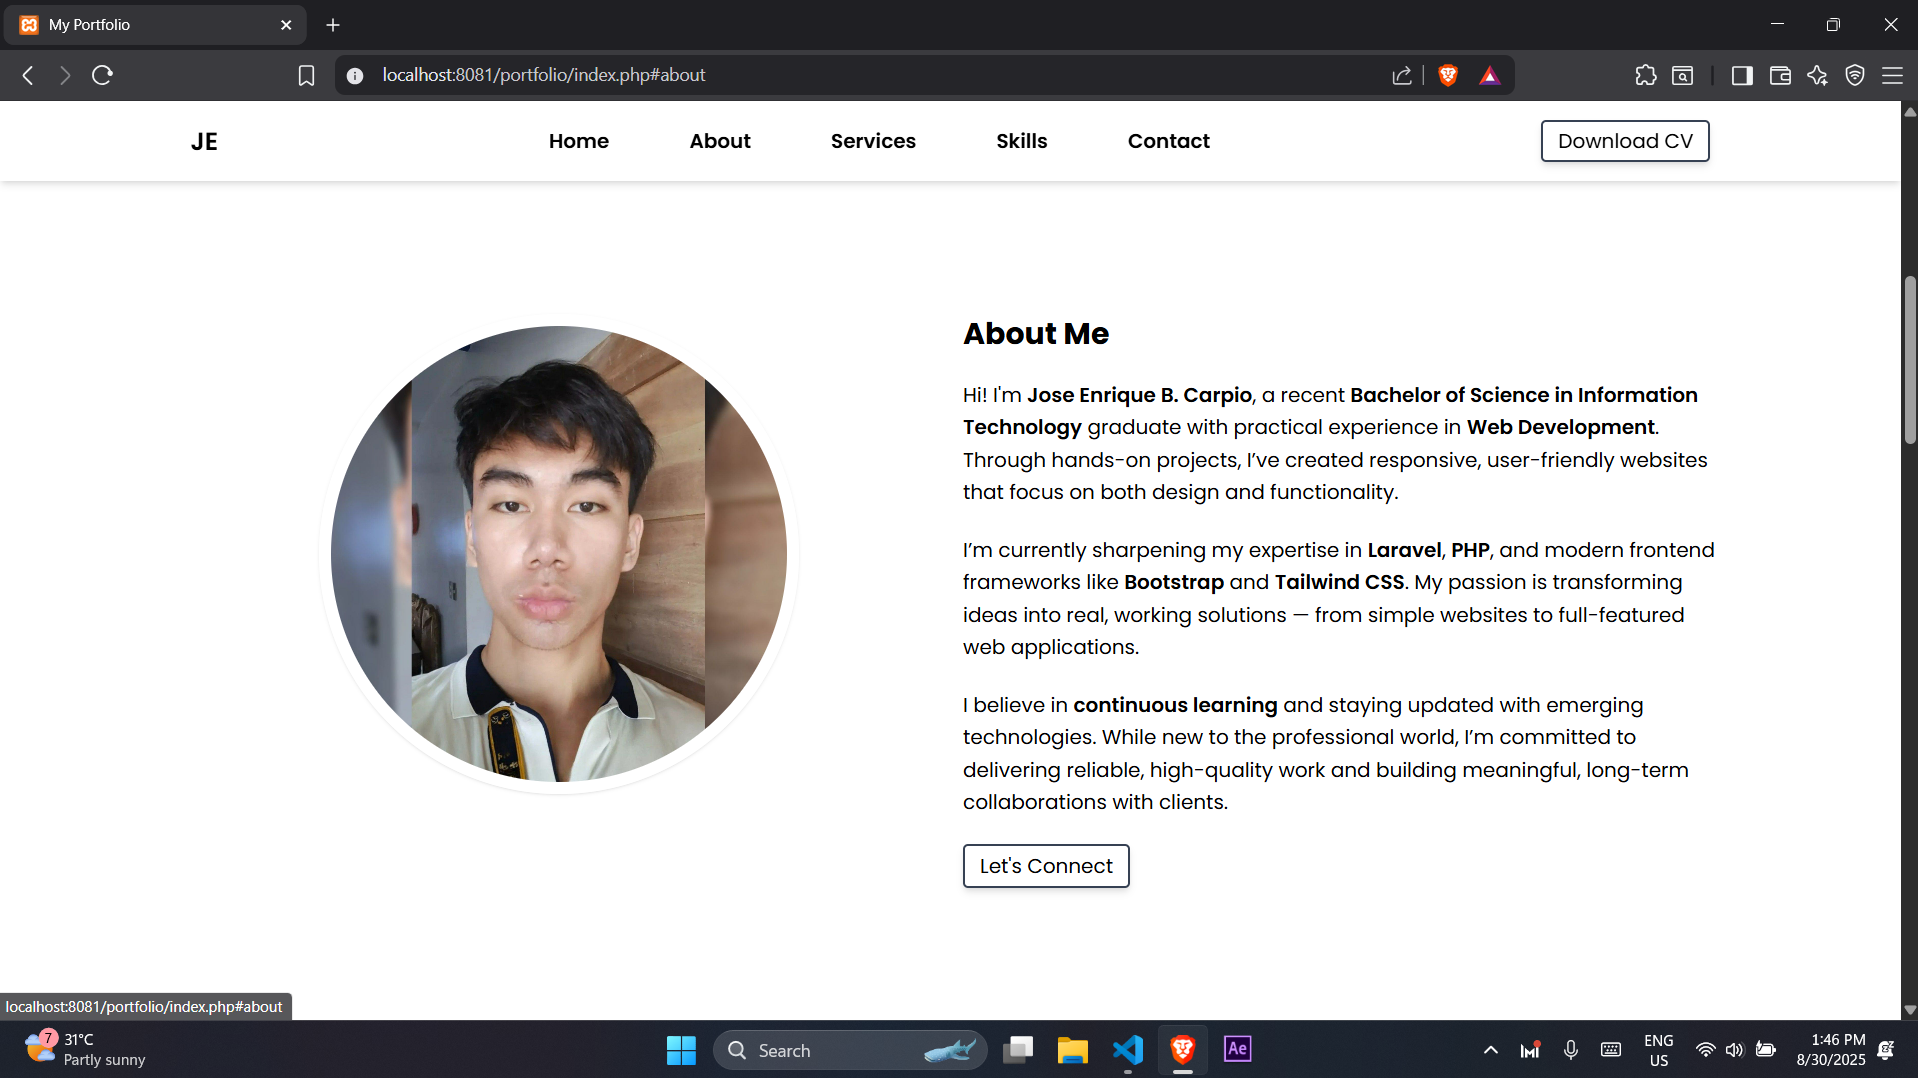
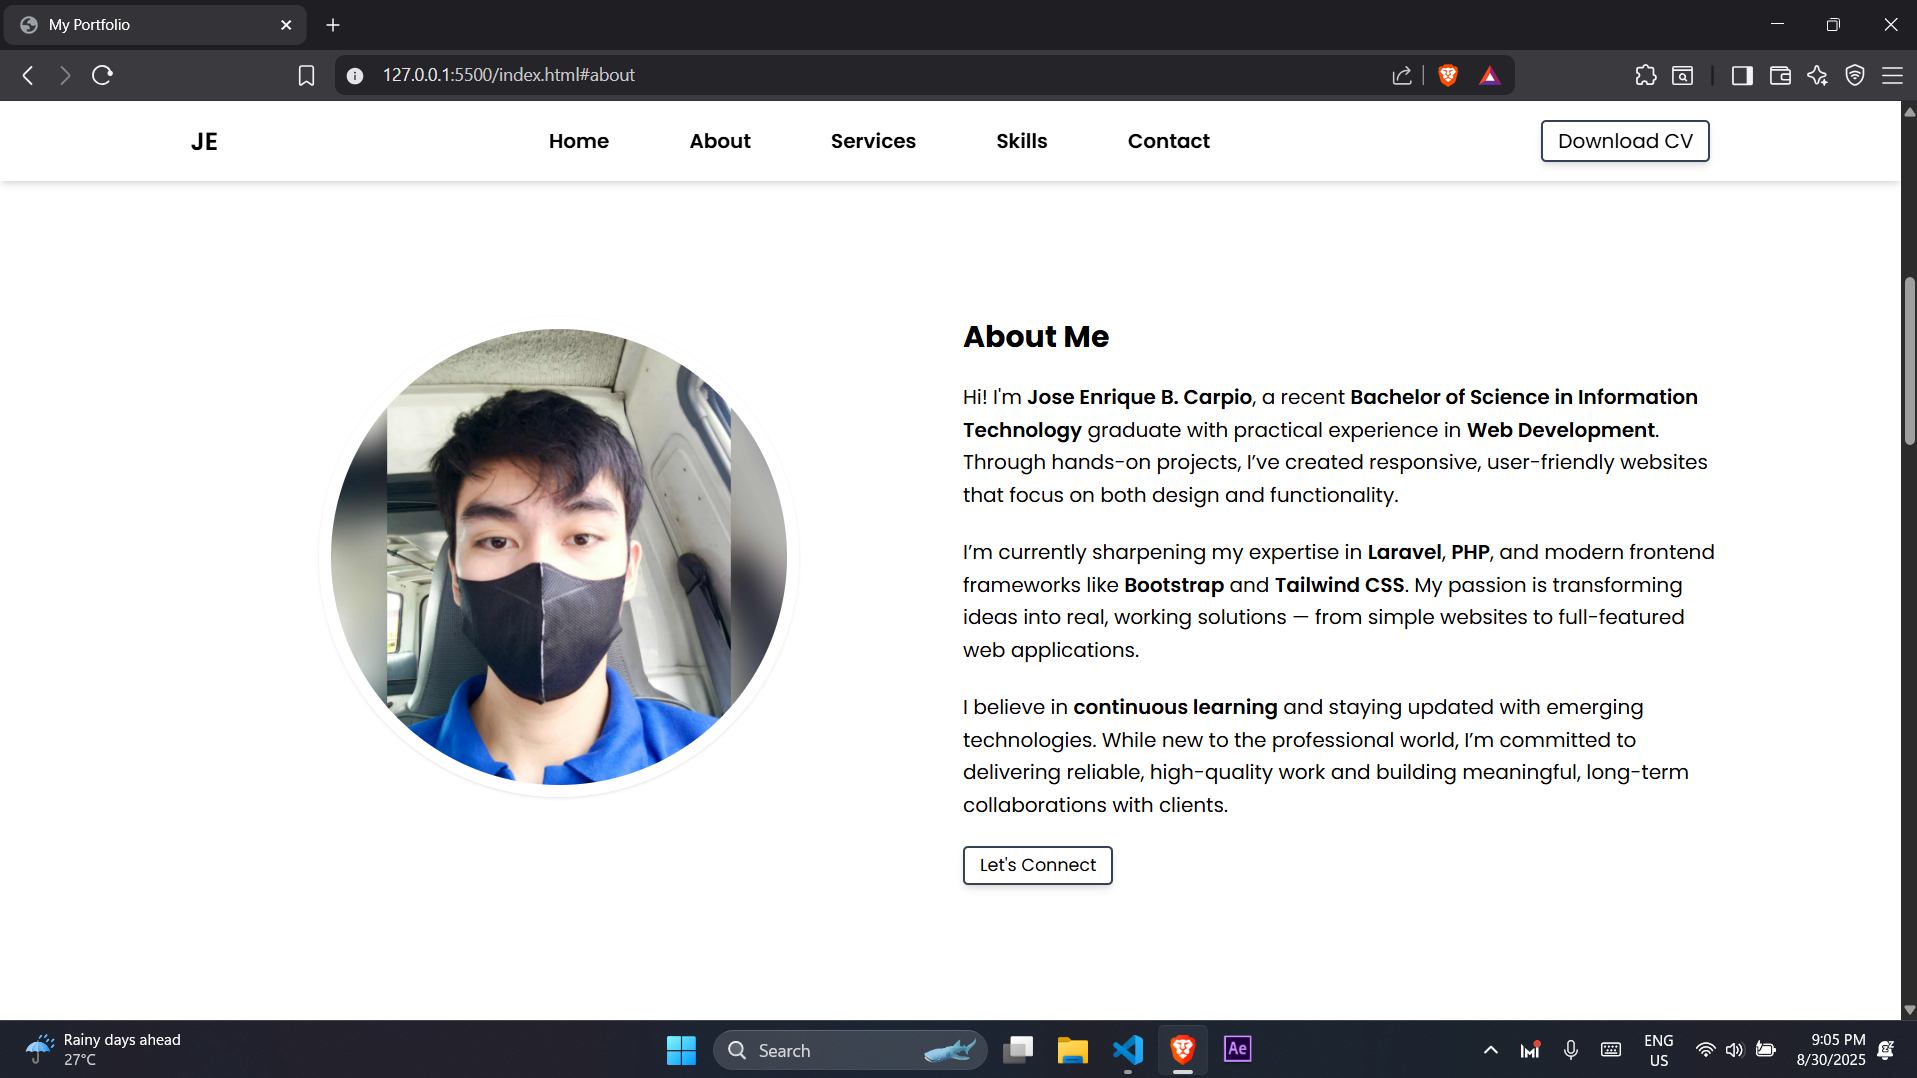
update picture

diff --git a/index.html b/index.html
@@ -134,7 +134,7 @@
 
 
 <!--About Section-->
-<section id="about" class="p-6 h-fit sm:h-180 flex items-center max-w-7xl mx-auto">
+<section id="about" class="p-6 h-fit sm:h-168 flex items-center justify-center max-w-7xl mx-auto">
 
   <div class="w-full grid grid-cols-1 sm:grid-cols-2 gap-5">
     <div class="flex justify-center">
